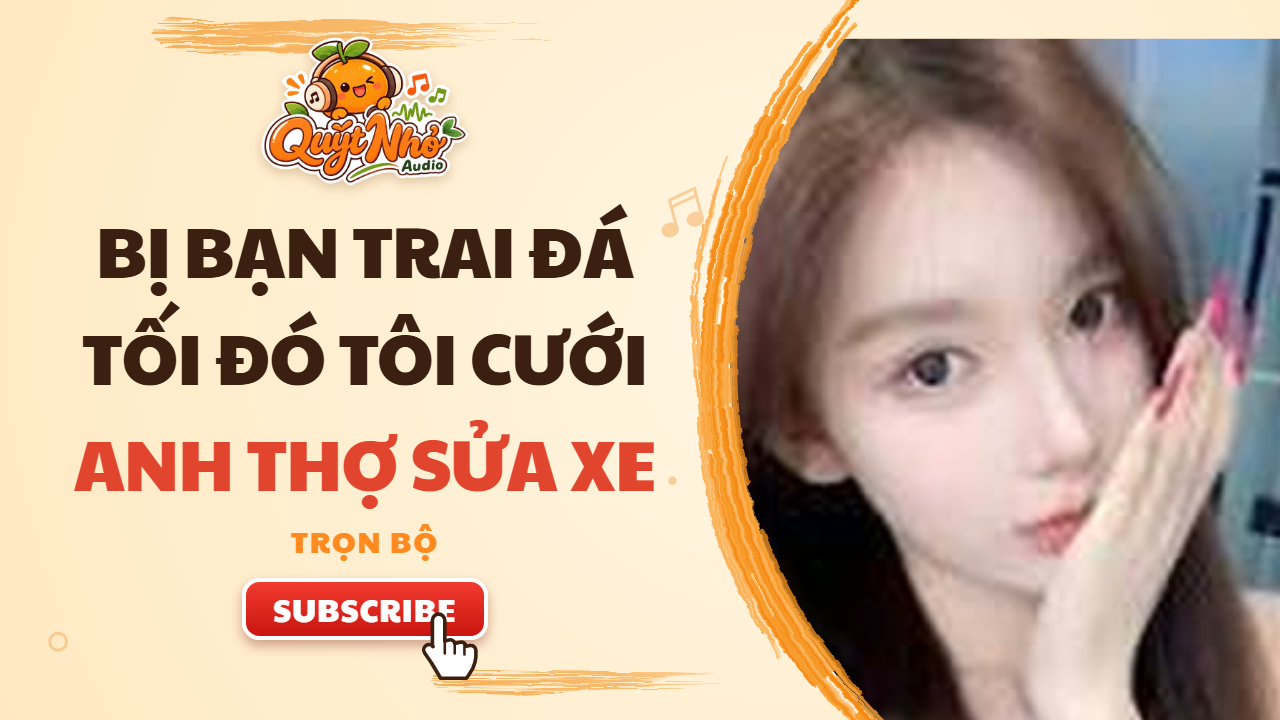
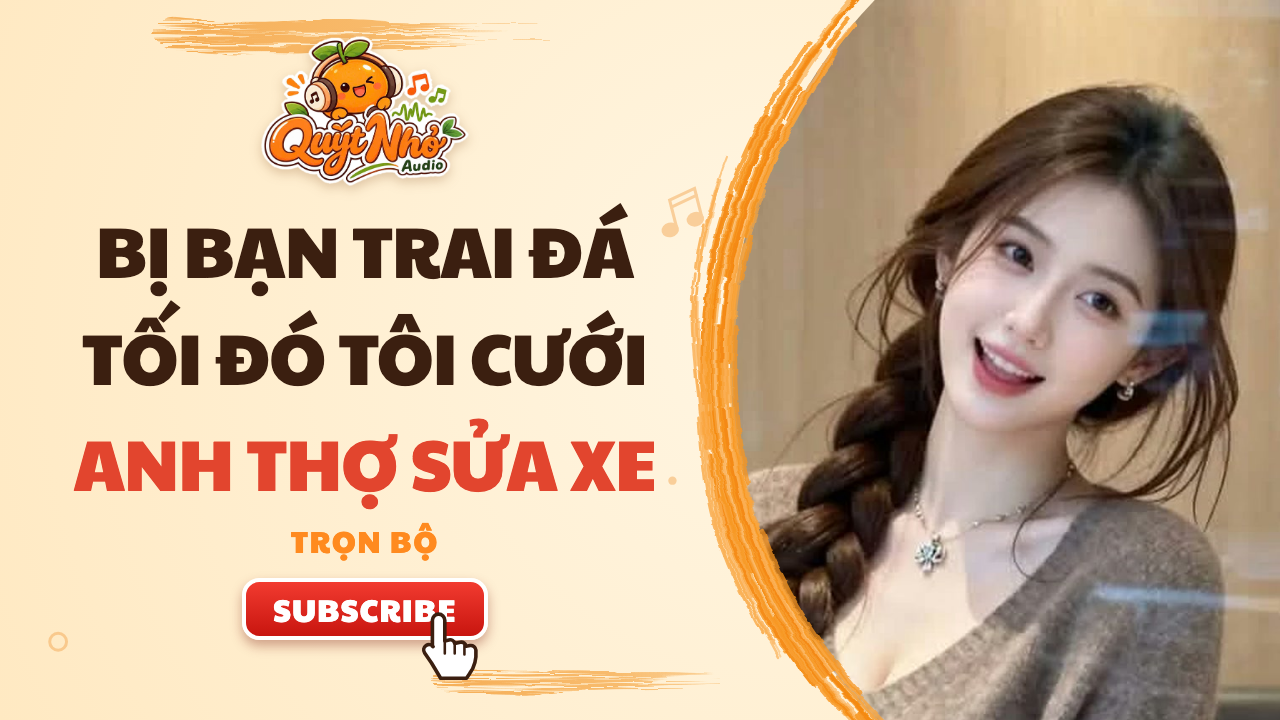
tc004: thay ảnh bìa, căn giữa; render lại thumb và 3 bìa TikTok

diff --git a/episodes/tinh-cam/tc004-cuoi-chop-nhoang-chong-la-thieu-gia-giau-nhat/tap.md b/episodes/tinh-cam/tc004-cuoi-chop-nhoang-chong-la-thieu-gia-giau-nhat/tap.md
@@ -21,7 +21,7 @@
 | Chia phần TikTok | 3 phần: ch.1, ch.2–3, ch.4–5 (~56% chữ, dừng cuối ch.5); chi tiết outline.md |
 | Giọng: dịch vụ, model, giọng, tốc độ (nguồn chính: `voice` trong `episode.json`) | minimax, speech-2.8-hd, tốc độ 1,2 (chi tiết ở `voice` trong `episode.json`) |
 | Footage: chủ đề, nguồn, tag | tag `sticker-b` (một nguồn, chạy liền), `dim` 0,15, `footageOffset` 0 |
-| Ảnh bìa: chữ (3–4 dòng), ảnh nhân vật (link nguồn), phương án A/B | |
+| Ảnh bìa: chữ (3–4 dòng), ảnh nhân vật (link nguồn), phương án A/B | chữ: `thumbText` trong episode.json; ảnh: do bạn gửi 2026-11-26 (cô gái tóc tết áo len nâu), `raw/tc004-thumb.webp` → `public/tc004/thumb-bg.jpg`; chưa có A/B |
 | Teaser TikTok 60–90 giây | |
 
 ## Tiến độ
@@ -42,3 +42,4 @@
 - 2026-11-21: chia lại TikTok theo chuẩn 3 phần (50–60% truyện): ch.1, ch.2–3, ch.4–5; điểm dừng chọn theo tỉ lệ chữ, cần duyệt theo độ tò mò.
 - 2026-11-24: render lại YouTube và 3 phần TikTok với tag `sticker-b`, `dim` 0,15; sửa lỗi tràn RAM ffmpeg ở nền footage dọc; thời lượng khớp audio, độ sáng đã kiểm.
 - 2026-11-24: đã đăng YouTube; TikTok chưa đăng.
+- 2026-11-26: thay ảnh bìa (cô gái tóc tết áo len nâu); render lại thumb.png và 3 bìa TikTok.
